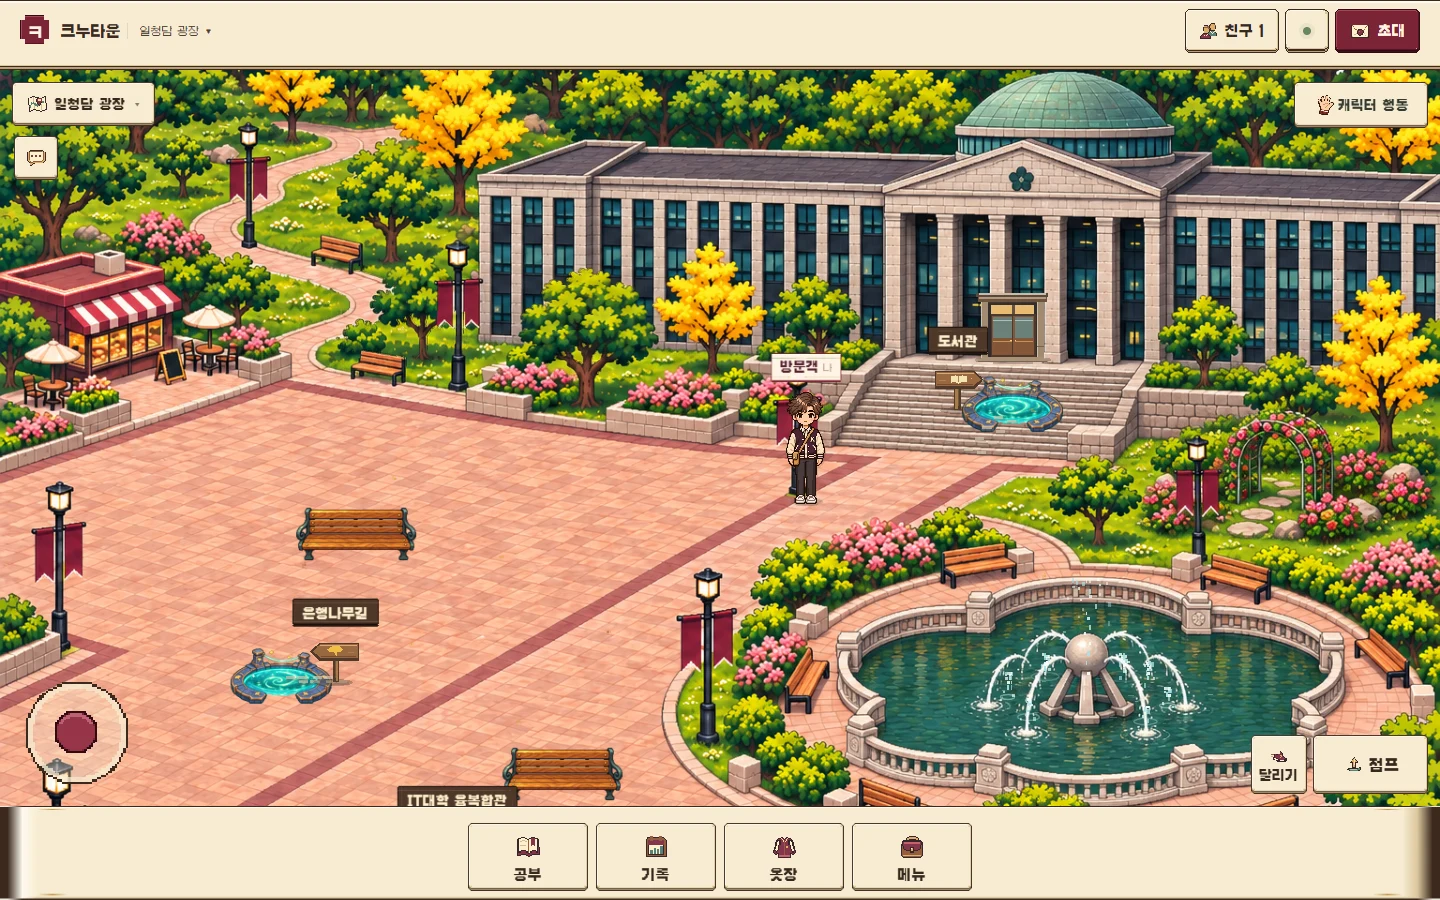
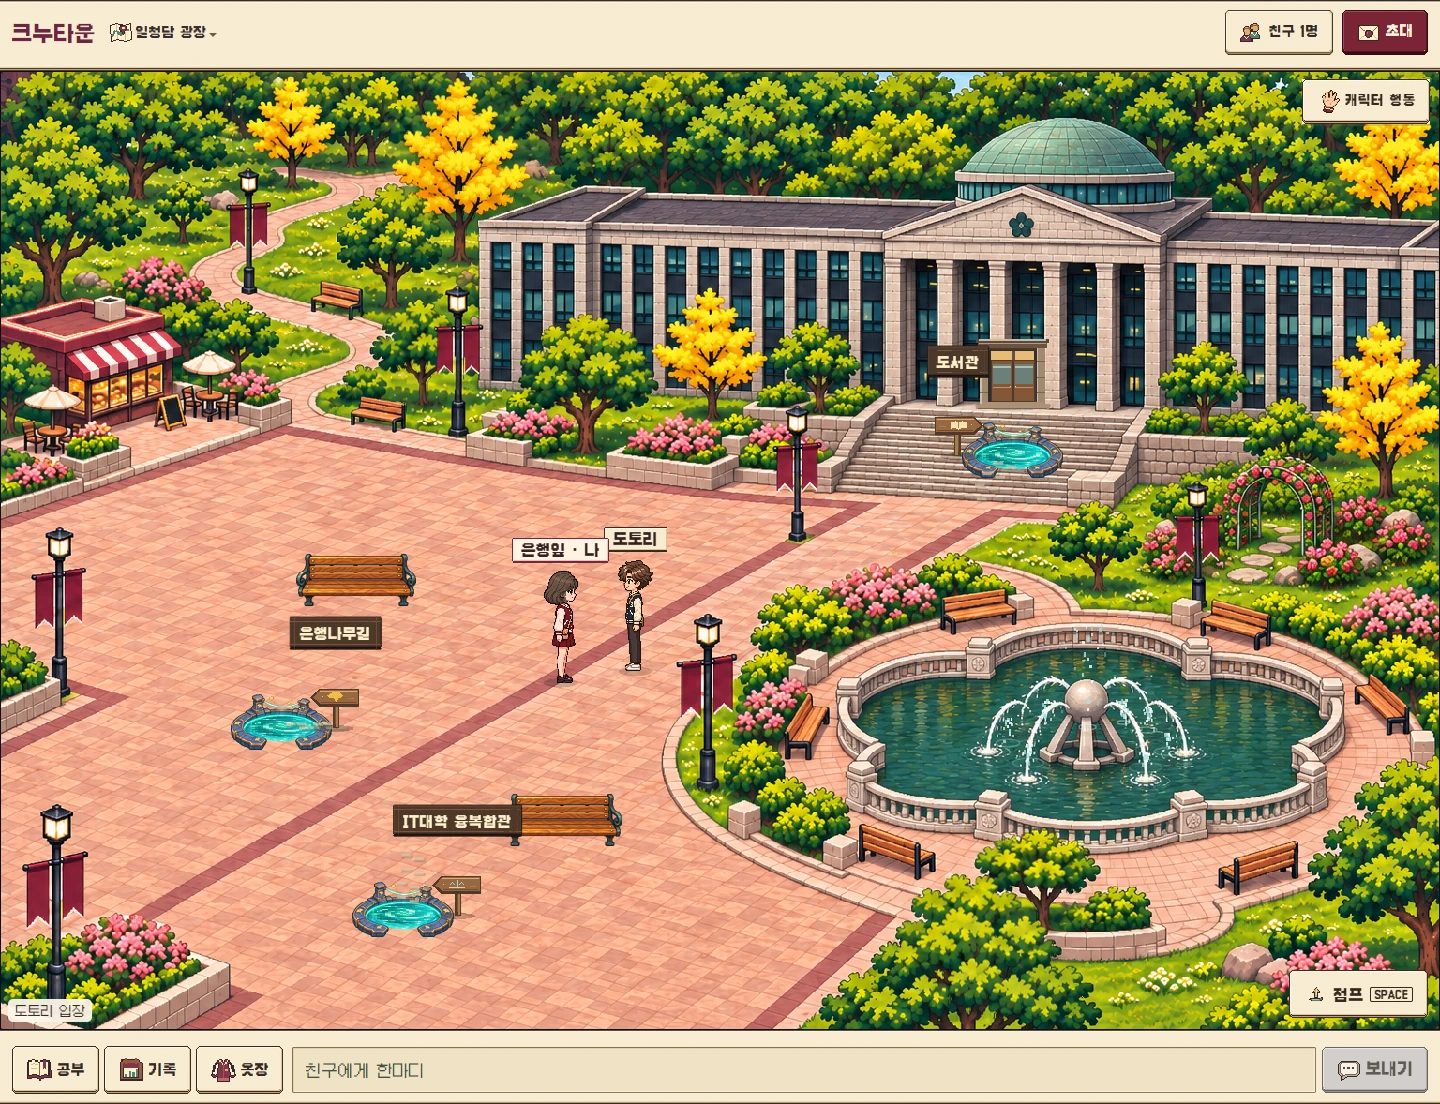
공개 웹의 광장·컴퓨터학부·모바일 도서관 실제 화면으로 안내 갱신

diff --git a/README.md b/README.md
@@ -2,10 +2,9 @@
 
 경북대학교 대구캠퍼스의 일청담 광장에서 친구와 만나고, 중앙도서관에서 함께 공부하는 브라우저 멀티플레이 게임입니다. 한 사람이 노트북에서 방을 열면 같은 네트워크에 있는 참가자는 휴대폰이나 노트북의 브라우저로 들어옵니다.
 
-![크누타운의 실제 플레이 화면. 본관 앞에 방문객 캐릭터가 서 있고 오른쪽에는 일청담 분수가 보인다.](docs/images/plaza-game.webp)
+[웹 광장 들어가기](https://knu-direct-plaza.vercel.app/?mode=web) · [컴퓨터학부·도서관과 모바일 화면](docs/play-screens.md) · [교내망 실험과 측정 결과](docs/network-research.md) · [팀이 함께 반영한 기능](docs/team-contributions.md) · [LAN 통신 키트](https://github.com/TaeHuiKKIM/campus-lan-kit)
 
-[공개 웹 광장 체험](https://knu-direct-plaza.vercel.app/?mode=web) · [교내망 실험과 측정 결과](docs/network-research.md) · [팀이 함께 반영한 기능](docs/team-contributions.md) · [다른 프로젝트에 쓸 수 있는 LAN 통신 키트](https://github.com/TaeHuiKKIM/campus-lan-kit)
-
+![일청담 광장에서 두 학생이 마주 보고 있다. 본관이 뒤에 있고 오른쪽 연못에는 분수가 솟는다.](docs/images/plaza-game.webp)
 
 웹에서는 **초대 → 학과·동아리·스터디 모임 만들기**로 주제 있는 소규모 모임을 열 수 있습니다. 초대받은 사람은 링크에서 내용을 보고 참여 여부를 선택합니다. 자주 방문한다면 **옷장 → 화면 설정 · 문의 → 홈 화면에 추가**로 웹 앱을 설치할 수 있습니다. iPhone Safari에서는 공유 메뉴의 **홈 화면에 추가**를 사용하세요. [웹 모임과 설치](docs/web-entry.md)
 

diff --git a/docs/play-screens.md b/docs/play-screens.md
@@ -1,0 +1,25 @@
+# 캠퍼스 플레이 화면
+
+두 브라우저로 같은 방에 접속해 촬영한 공개 웹판 화면이다. [웹 광장 들어가기](https://knu-direct-plaza.vercel.app/?mode=web)
+
+## 일청담 광장
+
+오른쪽은 일청담, 뒤편은 본관이다. 광장에서 친구를 만나고 이정표를 따라 다른 장소로 걸어간다.
+
+![일청담 분수 옆에서 마주 선 두 참가자](images/plaza-game.webp)
+
+## 컴퓨터학부와 IT4 강의실
+
+IT대학 융복합관 앞마당에서 IT4호관으로 건너간다. 정문 위 **컴퓨터학부** 간판 아래 포털로 들어가 빈 의자를 누르면 친구 옆에 앉을 수 있다.
+
+| IT4 정문 | 강의실 옆자리 |
+| --- | --- |
+| ![컴퓨터학부 간판이 보이는 IT4 정문](images/it4-entrance.webp) | ![두 학생이 칠판을 바라보며 같은 책상에 나란히 앉은 모습](images/lecture-together.webp) |
+
+## 도서관
+
+같은 공동 테이블을 PC와 휴대폰 너비에서 촬영했다. 휴대폰에서는 **자리 찾기**로 의자를 고르고, 앉은 뒤 **일어나기**를 누른다.
+
+![PC 도서관 화면. 두 참가자가 공동 테이블에 앉아 있다.](images/library-together.webp)
+
+<img src="images/library-mobile.webp" width="320" alt="390픽셀 너비의 모바일 도서관. 공동 테이블과 조이스틱, 일어나기 버튼이 함께 보인다.">
